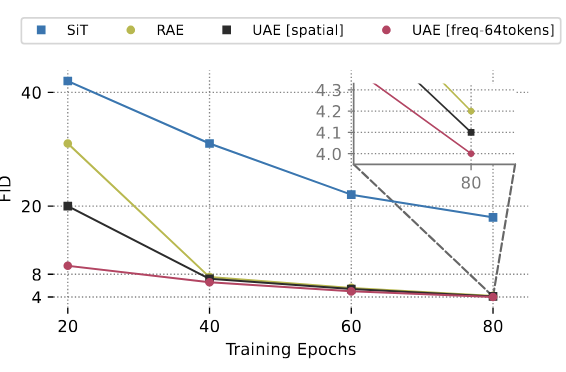
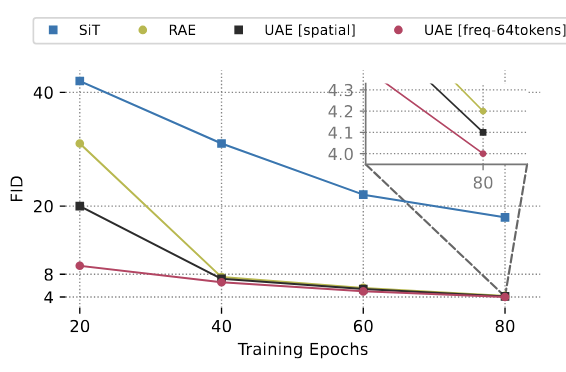
update figs

diff --git a/README.md b/README.md
@@ -55,15 +55,18 @@
 </div>
 <p align="center"><em>Reconstruction benchmarks on ImageNet-1K and MS-COCO 2017, showing strong image fidelity together with competitive semantic representation quality.</em></p>
 
-<div align="center">
-  <img src="assets/pixel_modeling.png" alt="UAE pixel modeling results" width="70%" />
-</div>
-<p align="center"><em>Pixel-space generative modeling.</em></p>
-
-<div align="center">
-  <img src="assets/latent_modeling.png" alt="UAE latent modeling comparison" width="70%" />
-</div>
-<p align="center"><em>Latent-space generative modeling.</em></p>
+<table align="center">
+  <tr>
+    <td align="center" width="50%">
+      <img src="assets/pixel_modeling.png" alt="UAE pixel modeling results" width="100%" /><br />
+      <em>Pixel-space generative modeling.</em>
+    </td>
+    <td align="center" width="50%">
+      <img src="assets/latent_modeling.png" alt="UAE latent modeling comparison" width="100%" /><br />
+      <em>Latent-space generative modeling.</em>
+    </td>
+  </tr>
+</table>
 
 ## Installation
 ~~~bash
